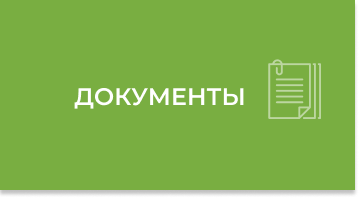
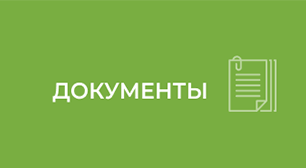
push

Changed region(s): [[0.0, 0.0, 1.0, 1.0], [0.1471, 0.4167, 0.7059, 0.625], [0.7353, 0.2976, 0.9118, 0.6845]]

diff --git a/index.html b/index.html
@@ -4,6 +4,9 @@
     <meta charset="UTF-8">
     <meta http-equiv="X-UA-Compatible" content="IE=edge">
     <meta name="viewport" content="width=device-width, initial-scale=1.0">
+    <link rel="preconnect" href="https://fonts.googleapis.com">
+    <link rel="preconnect" href="https://fonts.gstatic.com" crossorigin>
+    <link href="https://fonts.googleapis.com/css2?family=Montserrat:wght@300;500;700&family=Open+Sans:ital,wght@0,300;0,500;0,700;1,300&display=swap" rel="stylesheet">
     <link rel="stylesheet" href="./css/bootstrap.css" />
     <link rel="stylesheet" href="./css/main.css" />
     <title>Document</title>
@@ -18,7 +21,7 @@
                 <div class="col-sm-12 col-lg-8">
                     <nav>
                         <ul class="nav-links">
-                            <li><a href="#">О конкурсе</a></li>
+                            <li class="active"><a href="#">О конкурсе</a></li>
                             <li><a href="#">Новости</a></li>
                             <li><a href="#">Документы</a></li>
                             <li><a href="#">Эксперты</a></li>
@@ -109,7 +112,7 @@
             <div class="container-xxl">
                 <div class="row">
                     <div class="col-12 text-center text-uppercase">
-                        <h2 class="course-title">О КОНКУРСЕ</h2>
+                        <h2 class="course-title">Этапы</h2>
                     </div>
                 </div>
                 <div class="row bg-snake">
@@ -171,7 +174,7 @@
             <div class="container-xxl second-bg">
                 <div class="row">
                     <div class="col-12">
-                        <h2 class="text-uppercase text-center pt-5 mb-5">Новости</h2>
+                        <h2 class="text-uppercase text-center pt-5 mb-5 course-title">Новости</h2>
                     </div>
                 </div>
                 <div class="row news-container">
@@ -219,7 +222,7 @@
                 <div class="row">
                     <div class="col-xl-3 col-md-6 col-sm-12 img-docs">
                         <div class="docs-item">
-                            <img class="docs-img" src="./img/docs.png" alt="...">
+                            <img class="docs-img" src="./img/docs1.png" alt="...">
                         </div>
                     </div>
                     <div class="col-xl-3 col-md-6 col-sm-12 bg-docs">
@@ -256,7 +259,7 @@
             <div class="container-xxl">
                 <div class="row">
                     <div class="col-12 text-center text-uppercase pt-5 mb-5">
-                        <h2>Экспертный совет</h2>
+                        <h2 class="course-title">Экспертный совет</h2>
                     </div>
                 </div>
                 <div class="row">

diff --git a/css/main.css b/css/main.css
@@ -1,3 +1,6 @@
+body {
+    font-family: 'Montserrat', sans-serif;;
+}
 .nav-links {
     padding-top: 10px;
     display: flex;
@@ -13,6 +16,20 @@
 .nav-links li a {
     text-decoration: none;
     color: #3C4A54;
+    font-size: 14px;
+    
+}
+.active {
+    margin-top: 7px;
+}
+.active a::after {
+    content: "";
+    display: block;
+    margin-top: 5px;
+    width: 80px;
+    height: 2px;
+    background: url(../img/active.png);
+
 }
 .nav-links li:not(:last-child)::after {
     content: "";
@@ -91,6 +108,19 @@
 }
 .course-title {
     padding-bottom: 30px;
+    font-weight: 700;
+    color: #3C4A54;
+    display: flex;
+    flex-direction: column;
+    align-items: center;
+}
+.course-title::after {
+    content: "";
+    width: 81px;
+    height: 3px;
+    display: block;
+    background: url(../img/horline1.png);
+    margin-top: 7px;
 }
 .stage-item {
     display: flex;
@@ -237,15 +267,16 @@
     border: 1px solid #E29E29;
     box-sizing: border-box;
     border-radius: 30px;
-    padding: 10px 45px;
+    padding: 10px 65px;
     text-decoration: none;
+    font-family: 'Open Sans', sans-serif;
 }
 .banner-btn p {
     margin-top: 30px;
-    width: 340px;
+    width: 310px;
     color: #731D1D;
-    font-style:italic;
-
+    font-family: 'Open Sans', sans-serif;
+    font-style: italic;
 }
 
 /* 
@@ -266,6 +297,15 @@
     .about-item-text h3{
         text-align: center;
         padding: 15px 10px;
+        margin-top: 15px;
+        margin-bottom: 15px;
+    }
+    .about-item-img {
+        display: block;
+        margin: 0 10px;
+    }
+    .item {
+        min-height: 234px;
     }
     .rev-img { 
         display: flex;
@@ -291,6 +331,7 @@
     .header-img div{
         padding: 15px 0px 10px 0;
     }   
+
    
 }
 @media (max-width: 767px) {
